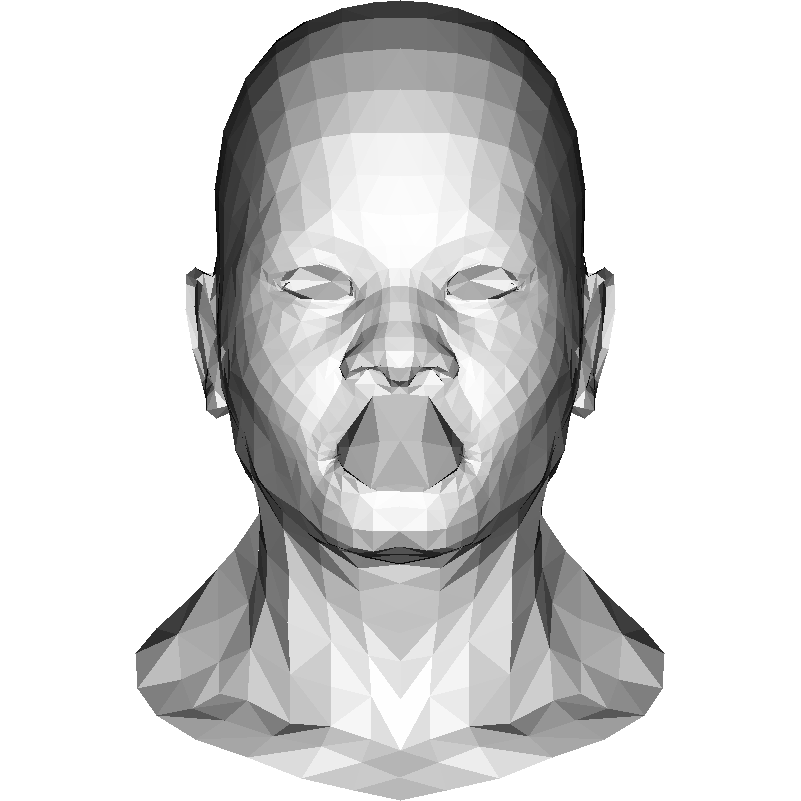
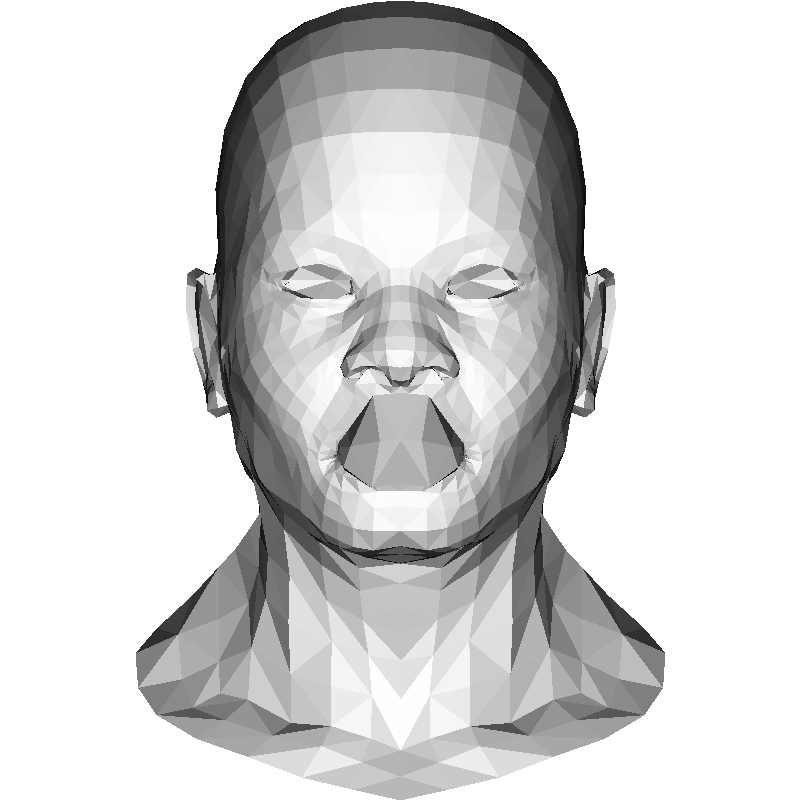
I can't believe this compiled and ran without errors

diff --git a/src/renderer.rs b/src/renderer.rs
@@ -5,6 +5,7 @@ use geometry::Vertex3;
 use image::{ImageBuffer, Pixel};
 use std::mem;
 use std::cmp;
+use std::f32;
 
 #[derive(Debug)]
 struct Point {
@@ -12,38 +13,36 @@ struct Point {
     y: i32,
 }
 
-pub fn triangle<P: Pixel + 'static>(vert0: &Vertex2<i32>,
-                                    vert1: &Vertex2<i32>,
-                                    vert2: &Vertex2<i32>,
+pub fn triangle<P: Pixel + 'static>(vert0: &Vertex3<f32>,
+                                    vert1: &Vertex3<f32>,
+                                    vert2: &Vertex3<f32>,
                                     zbuffer: &mut [f32],
                                     imgbuf: &mut ImageBuffer<P, Vec<P::Subpixel>>,
                                     pixel: P) {
     let verts = [vert0, vert1, vert2];
-    let mut bboxmin = Vertex2::<i32> {
-        x: imgbuf.width() as i32 - 1,
-        y: imgbuf.height() as i32 - 1,
-    };
-    let mut bboxmax = Vertex2::<i32> { x: 0, y: 0 };
-    let clamp = Vertex2::<i32> {
-        x: imgbuf.width() as i32 - 1,
-        y: imgbuf.height() as i32 - 1,
+    let mut bboxmin = Vertex2::<f32> { x: f32::INFINITY, y: f32::INFINITY };
+    let mut bboxmax = Vertex2::<f32> { x: f32::NEG_INFINITY, y: f32::NEG_INFINITY };
+    let clamp = Vertex2::<f32> {
+        x: imgbuf.width() as f32 - 1.0,
+        y: imgbuf.height() as f32 - 1.0,
     };
     for i in 0..3 {
-        bboxmin.x = cmp::max(0, cmp::min(bboxmin.x, verts[i].x));
-        bboxmax.x = cmp::min(clamp.x, cmp::max(bboxmax.x, verts[i].x));
-        bboxmin.y = cmp::max(0, cmp::min(bboxmin.y, verts[i].y));
-        bboxmax.y = cmp::min(clamp.y, cmp::max(bboxmax.y, verts[i].y));
+        bboxmin.x = 0f32.max(bboxmin.x.min(verts[i].x));
+        bboxmax.x = clamp.x.min(bboxmax.x.max(verts[i].x));
+        bboxmin.y = 0f32.max(bboxmin.y.min(verts[i].y));
+        bboxmax.y = clamp.y.min(bboxmax.y.max(verts[i].y));
     }
 
-    let mut p = Vertex2::<i32> {
-        x: bboxmin.x,
-        y: bboxmin.y,
+    let mut p = Vertex3::<f32> {
+        x: bboxmin.x as f32,
+        y: bboxmin.y as f32,
+        z: 0.0
     };
 
-    for x in bboxmin.x..(bboxmax.x + 1) {
-        for y in bboxmin.y..(bboxmax.y + 1) {
-            p.x = x;
-            p.y = y;
+    for x in (bboxmin.x as u32)..(bboxmax.x as u32 + 1) {
+        for y in (bboxmin.y as u32)..(bboxmax.y as u32 + 1) {
+            p.x = x as f32;
+            p.y = y as f32;
             let bc_screen = Vertex3::barycentric(*vert0, *vert1, *vert2, p);
             if bc_screen.x < 0.0 || bc_screen.y < 0.0 || bc_screen.z < 0.0 {
                 continue;

diff --git a/src/main.rs b/src/main.rs
@@ -2,30 +2,33 @@ extern crate image;
 
 use std::fs::File;
 use std::path::Path;
+use std::f32;
 use image::ImageBuffer;
 use model::Model;
 use geometry::Vertex2;
 use geometry::Vertex3;
 
-const WIDTH: u32 = 800;
-const HEIGHT: u32 = 800;
-
 pub mod model;
 pub mod geometry;
 pub mod renderer;
+
+const WIDTH: u32 = 800;
+const HEIGHT: u32 = 800;
+const ZBUFFER_SIZE: usize = WIDTH as usize + 1 * HEIGHT as usize + 1;
 
 fn main() {
     // +1 hack to get over the out of bounds errors
     let mut imgbuf = ImageBuffer::new(WIDTH + 1, HEIGHT + 1);
     let model = Model::new("models/african_head.obj");
     let light_dir = Vertex3::<f32> { x: 0.0, y: 0.0, z: -1.0 };
-    let mut zbuffer: [f32; WIDTH as usize + 1 * HEIGHT as usize + 1];
+
+    let mut zbuffer: [f32; ZBUFFER_SIZE] = [f32::NEG_INFINITY; ZBUFFER_SIZE];
 
     for face in model.faces {
-        let mut screen_coords: [Vertex2<i32>; 3] = [
-            Vertex2::<i32> {x: 0, y: 0},
-            Vertex2::<i32> {x: 0, y: 0},
-            Vertex2::<i32> {x: 0, y: 0},
+        let mut screen_coords: [Vertex3<f32>; 3] = [
+            Vertex3::<f32> {x: 0.0, y: 0.0, z:0.0},
+            Vertex3::<f32> {x: 0.0, y: 0.0, z:0.0},
+            Vertex3::<f32> {x: 0.0, y: 0.0, z:0.0},
         ];
         let mut world_coords: [Vertex3<f32>; 3] = [
             Vertex3::<f32> {x: 0f32, y: 0f32, z: 0f32},
@@ -35,9 +38,10 @@ fn main() {
         for i in 0..3 {
             let vertex_index = *face.get(i).unwrap() as usize;
             world_coords[i] = *model.verts.get(vertex_index).unwrap();
-            screen_coords[i] = Vertex2::<i32> {
-                x: ((world_coords[i].x + 1.0) * WIDTH as f32 / 2.0) as i32,
-                y: ((world_coords[i].y + 1.0) * HEIGHT as f32 / 2.0) as i32
+            screen_coords[i] = Vertex3::<f32> {
+                x: ((world_coords[i].x + 1.0) * WIDTH as f32 / 2.0),
+                y: ((world_coords[i].y + 1.0) * HEIGHT as f32 / 2.0),
+                z: world_coords[i].z,
             } ;
         }
         let mut n = Vertex3::cross((world_coords[2] - world_coords[0]), (world_coords[1] - world_coords[0]));
